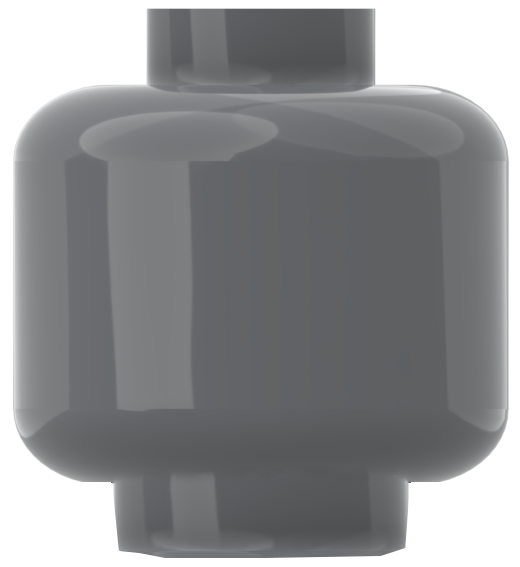
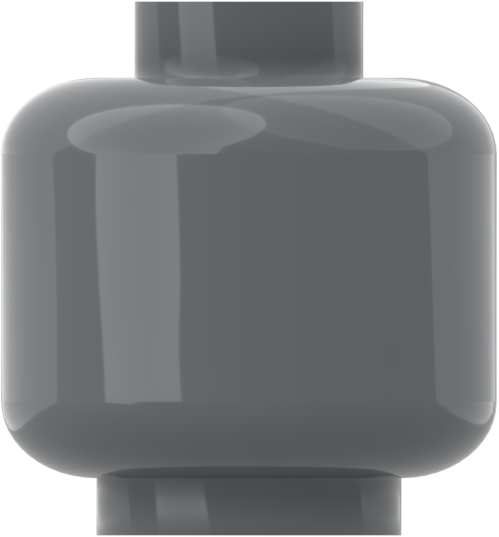
fix: Adjust Minifig model structure

diff --git a/src/components/MinifigPart/MinifigPart.tsx b/src/components/MinifigPart/MinifigPart.tsx
@@ -21,9 +21,9 @@ const MinifigPart = memo<IMinifigPartProps>(({ type, imageSrc, className }) => {
               alt={type.toLowerCase()}
               className={cn(
                 'object-contain block w-full h-full -mt-4 relative z-10 ',
-                type === MinifigPartType.HAIR && ' z-20 -mb-10',
-                type === MinifigPartType.HEAD && 'relative z-30 scale-70 -translate-y-2',
-                type === MinifigPartType.TORSO && 'z-40 scale-150',
+                type === MinifigPartType.HAIR && ' z-20 -mb-18',
+                type === MinifigPartType.HEAD && 'relative z-40 scale-65 translate-y-5.5',
+                type === MinifigPartType.TORSO && 'z-30 scale-150',
                 type === MinifigPartType.LEGS && ' z-10 -mt-10 ',
                 type === MinifigPartType.ACCESSORY && 'mt-0 rounded-md border-2 border-gray-800',
               )}
